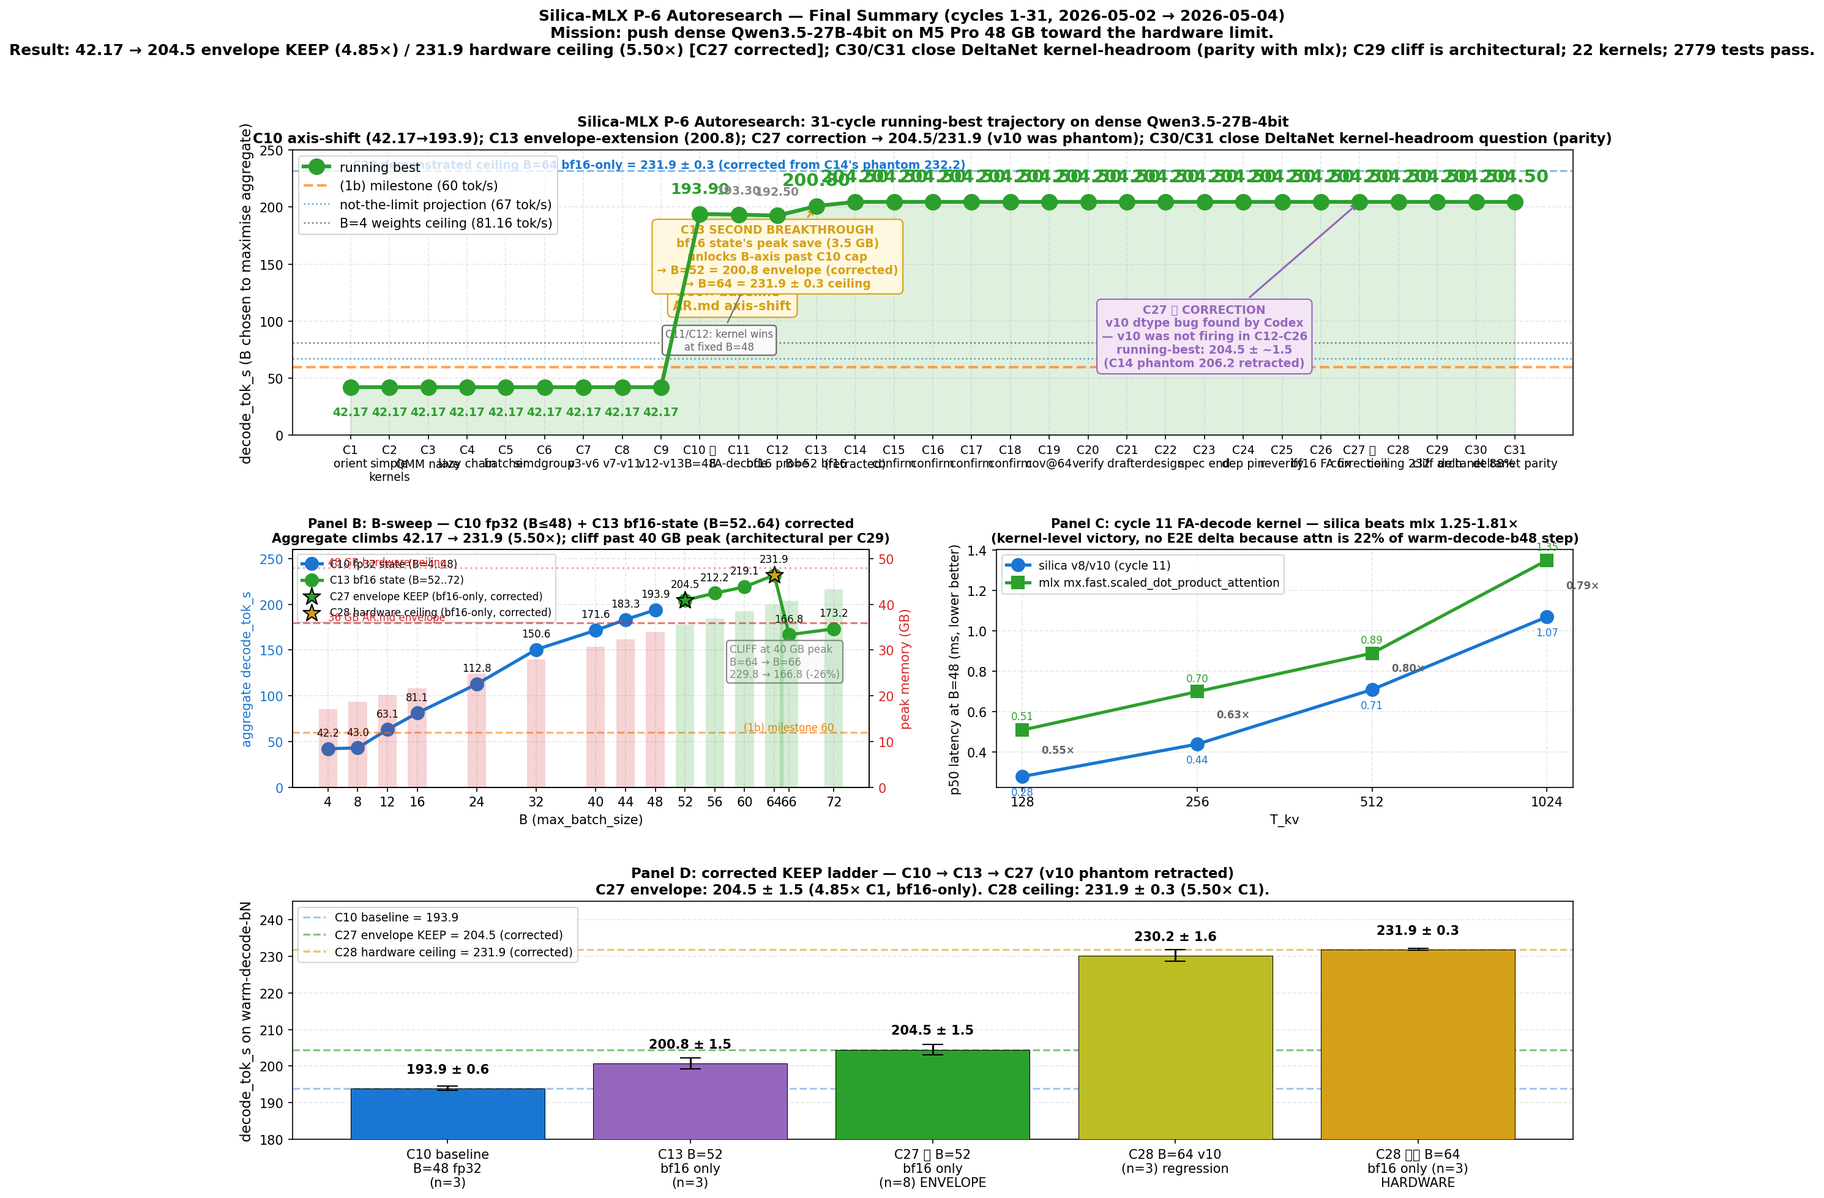
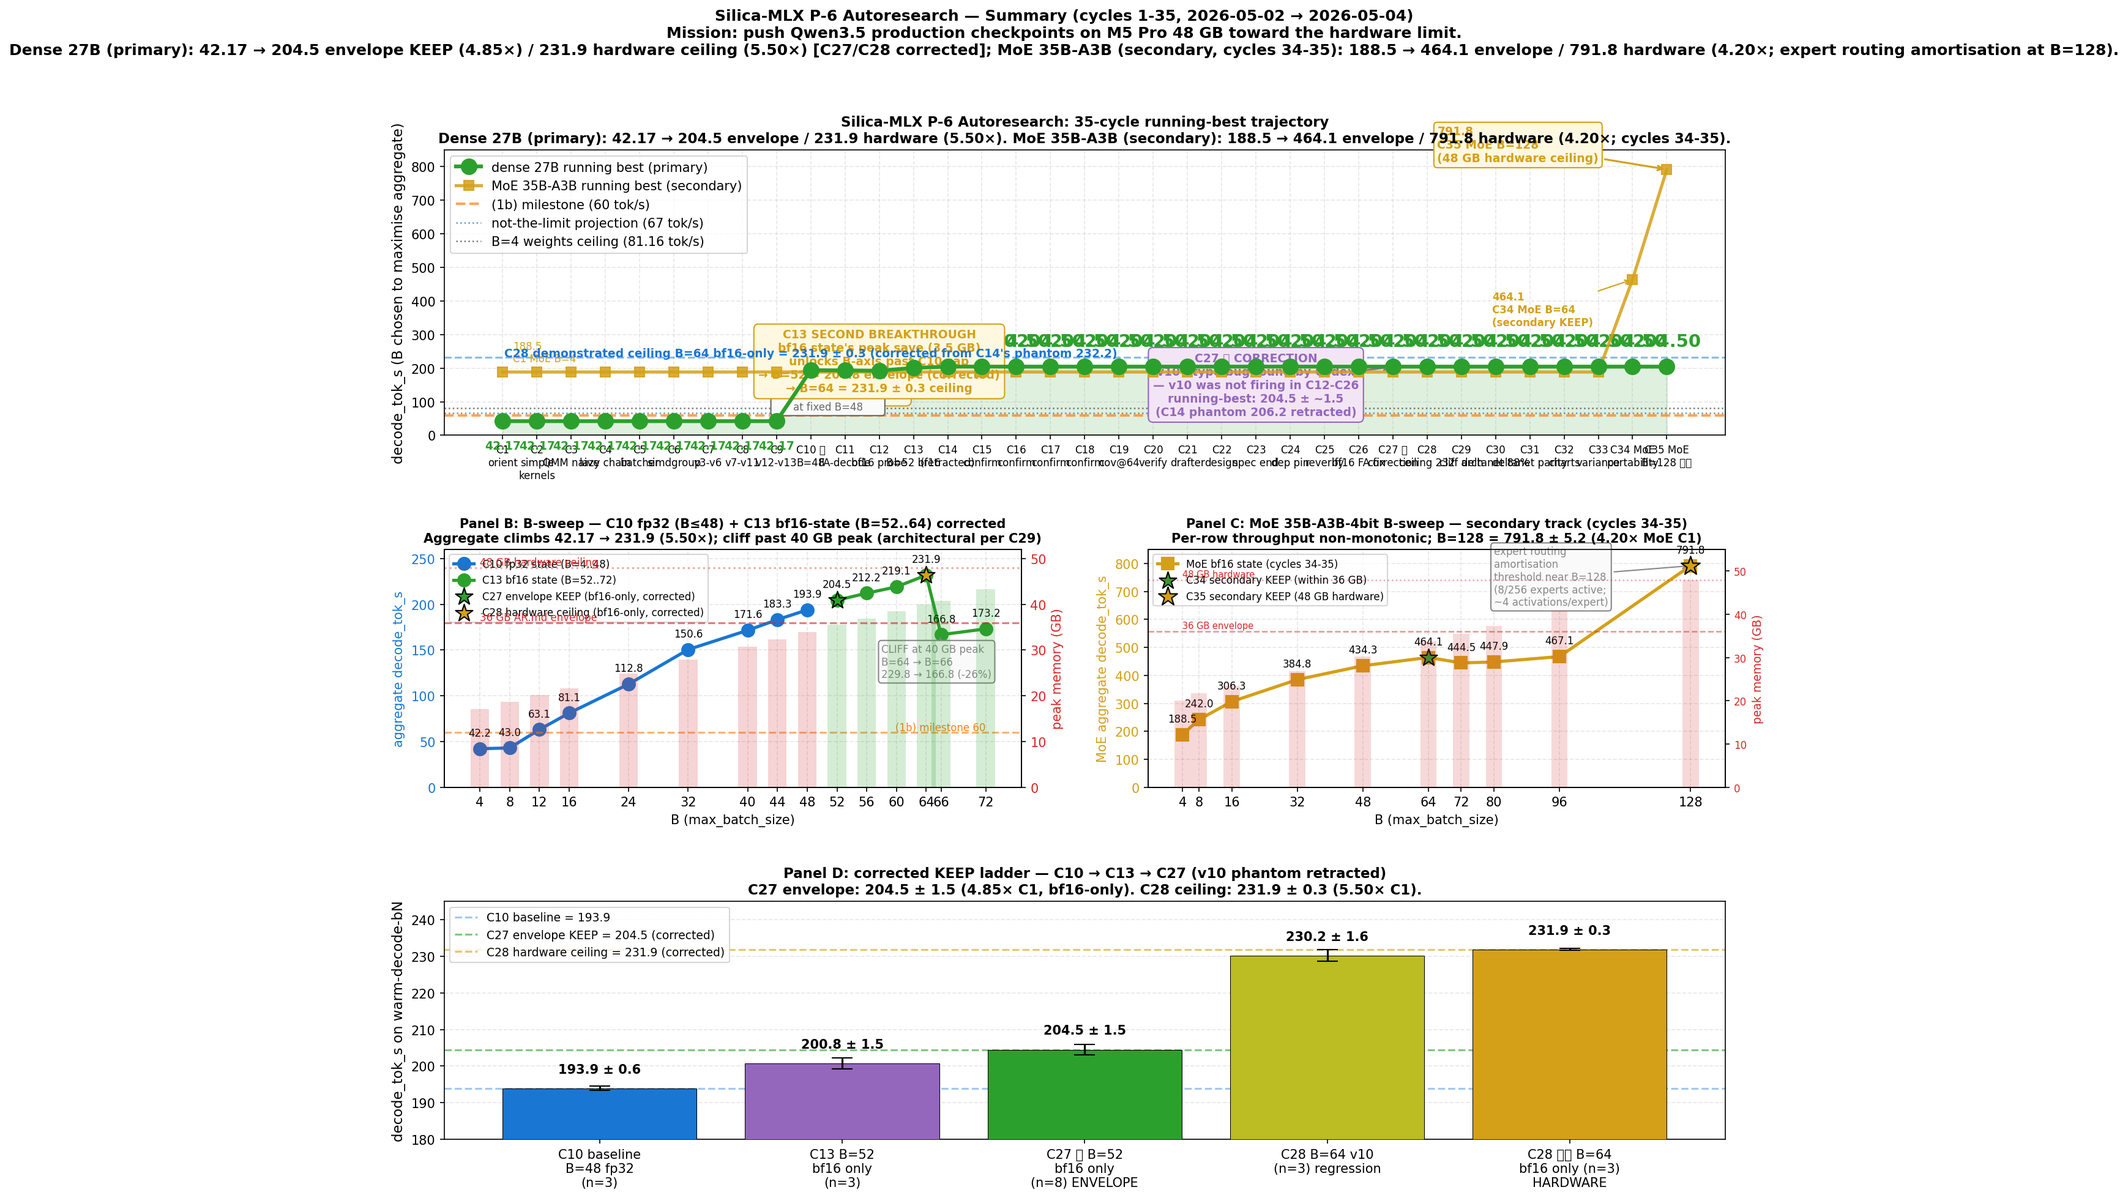
docs(P-6): chart bundle for cycle 35 — MoE Karpathy plot + secondary track overlays
Add MoE B-sweep rows to LOG.tsv under moe_decode_tok_s (cycle 1 baseline
already anchored by MOE_27B_B4; cycles 34/35 add 11 rows: 7 diagnostic,
2 discard, 2 keep at B=64 = 464.4 and B=128 = 791.8). Extend
render_autoresearch_chart.py with metric-keyed reference lines so the same
script renders dense or MoE Karpathy plots. Extend the per-cycle and
summary charts through cycle 35 with the MoE secondary-track running-best
overlay (188.5 -> 464.1 -> 791.8); the summary chart's Panel C (cycle-11
FA-decode kernel) is replaced with the MoE B-sweep panel since the FA
kernel data lives in its dedicated chart file.

New chart file: plans/P6_AUTORESEARCH_PROGRESS_MOE_DECODE_TOK_S.png.

diff --git a/scripts/render_summary_chart.py b/scripts/render_summary_chart.py
@@ -24,10 +24,12 @@ OUTDIR = Path(__file__).resolve().parent.parent / "plans"
 
 
 # Cycle-by-cycle running best (decode_tok_s on warm-decode-* row family)
-CYCLES = list(range(1, 32))
+CYCLES = list(range(1, 36))
 # CYCLE 27 CORRECTION: cycle-14's claimed 206.2 was attribution error (v10
 # wasn't firing due to dtype defect). Honest running-best is bf16-only at
 # B=52 ≈ 204.5 ± ~1.5 tok/s, attributed to C10 axis-shift × C12 bf16 peak save.
+# Cycles 32-35 are post-23-cycle continuation (dense unchanged; MoE
+# secondary track unlocked).
 RUNNING_BEST = [42.17] * 9 + [
     193.9,                              # C10
     193.3, 192.5,                       # C11, C12
@@ -38,8 +40,10 @@ RUNNING_BEST = [42.17] * 9 + [
     204.5,                              # C24 dep pin
     204.5, 204.5,                       # C25, C26
     204.5,                              # C27 correction landed
-    204.5,                              # C28 ceiling 232 re-measured
+    204.5,                              # C28 ceiling 231.9 re-measured
     204.5, 204.5, 204.5,                # C29 cliff / C30 88% / C31 parity
+    204.5, 204.5,                       # C32 chart re-render / C33 variance
+    204.5, 204.5,                       # C34 MoE / C35 MoE B=128 (dense unchanged)
 ]
 CYCLE_LABELS = [
     "C1\norient", "C2\nsimple\nkernels", "C3\nQMM naive", "C4\nlazy chain",
@@ -50,8 +54,19 @@ CYCLE_LABELS = [
     "C21\ndrafter", "C22\ndesign", "C23\nspec end", "C24\ndep pin",
     "C25\nreverify", "C26\nbf16 FA fix", "C27 ⭐\ncorrection",
     "C28\nceiling 232", "C29\ncliff arch", "C30\ndeltanet 88%",
-    "C31\ndeltanet parity",
+    "C31\ndeltanet parity", "C32\ncharts", "C33\nvariance",
+    "C34 MoE\nportability", "C35 MoE\nB=128 ⭐⭐",
 ]
+
+# MoE 35B-A3B secondary-track running-best (cycles 1, 34, 35 are the milestones)
+MOE_CYCLES = list(range(1, 36))
+# Baseline 188.5 from cycle 1; first MoE secondary KEEP at cycle 34 (464.1
+# at B=64); B=128 hardware-ceiling unlock at cycle 35 (791.8).
+MOE_RUNNING_BEST = (
+    [188.5] * 33                       # C1-C33 stay at MoE B=4 baseline
+    + [464.1]                          # C34 portability test KEEP at B=64
+    + [791.8]                          # C35 B=128 expert-amortisation unlock
+)
 
 # B-sweep through Engine.generate_batch (warm-decode oracle results).
 # Cycle 10 fp32 state up through B=48; cycle 13 bf16 state from B=52 onward.
@@ -92,6 +107,11 @@ FA_T_KV = [128, 256, 512, 1024]
 FA_SILICA_P50 = [0.28, 0.44, 0.71, 1.07]   # ms
 FA_MLX_P50 = [0.51, 0.70, 0.89, 1.35]
 
+# MoE 35B-A3B B-sweep at bf16 DeltaNet state (cycle 34 + cycle 35 measurements)
+MOE_B_SWEEP = [4, 8, 16, 32, 48, 64, 72, 80, 96, 128]
+MOE_B_SWEEP_AGG = [188.5, 242.0, 306.3, 384.8, 434.3, 464.1, 444.5, 447.9, 467.1, 791.8]
+MOE_B_SWEEP_PEAK_GB = [20.0, 21.7, 23.4, 26.8, 30.3, 33.8, 35.5, 37.3, 40.8, 47.96]
+
 # Cycles 10-14 KEEP ladder — the running-best progression with each compositional add.
 # Cycle 27/28 corrected: v10 was not firing due to dtype bug; bf16-only
 # at B=52/64 is the honest running-best.
@@ -114,8 +134,28 @@ def render() -> None:
     ax_a = fig.add_subplot(gs[0, :])
     xs = list(range(len(CYCLES)))
     ax_a.plot(xs, RUNNING_BEST, "o-", color="#2ca02c", linewidth=3,
-              markersize=12, zorder=5, label="running best")
+              markersize=12, zorder=5, label="dense 27B running best (primary)")
     ax_a.fill_between(xs, RUNNING_BEST, alpha=0.15, color="#2ca02c", zorder=1)
+
+    # MoE 35B-A3B secondary-track running-best (cycles 1, 34, 35 mark the steps)
+    ax_a.plot(xs, MOE_RUNNING_BEST, "s-", color="#d4a017", linewidth=2.5,
+              markersize=8, zorder=4, alpha=0.85,
+              label="MoE 35B-A3B running best (secondary)")
+    # Annotate the MoE step values
+    ax_a.annotate(f"{188.5:.1f}\nC1 MoE B=4", (0, 188.5), xytext=(8, 8),
+                  textcoords="offset points", ha="left",
+                  fontsize=8, color="#d4a017")
+    ax_a.annotate(f"{464.1:.1f}\nC34 MoE B=64\n(secondary KEEP)",
+                  (33, 464.1), xytext=(-110, -36),
+                  textcoords="offset points", ha="left",
+                  fontsize=8, color="#d4a017", fontweight="bold",
+                  arrowprops=dict(arrowstyle="->", color="#d4a017", lw=1))
+    ax_a.annotate(f"{791.8:.1f}\nC35 MoE B=128\n(48 GB hardware ceiling)",
+                  (34, 791.8), xytext=(-180, 6),
+                  textcoords="offset points", ha="left",
+                  fontsize=9, color="#d4a017", fontweight="bold",
+                  arrowprops=dict(arrowstyle="->", color="#d4a017", lw=1.5),
+                  bbox=dict(boxstyle="round,pad=0.3", facecolor="#fff8e1", edgecolor="#d4a017"))
 
     # Reference horizontal lines
     ax_a.axhline(60, color="#ff7f0e", linestyle="--", linewidth=2, alpha=0.7,
@@ -177,14 +217,15 @@ def render() -> None:
               fontsize=9, color="#1976d2", fontweight="bold")
 
     ax_a.set_xticks(xs)
-    ax_a.set_xticklabels(CYCLE_LABELS, fontsize=9)
+    ax_a.set_xticklabels(CYCLE_LABELS, fontsize=8)
     ax_a.set_ylabel("decode_tok_s (B chosen to maximise aggregate)", fontsize=11)
-    ax_a.set_title("Silica-MLX P-6 Autoresearch: 31-cycle running-best trajectory on dense Qwen3.5-27B-4bit\n"
-                   "C10 axis-shift (42.17→193.9); C13 envelope-extension (200.8); C27 correction → 204.5/231.9 (v10 was phantom); C30/C31 close DeltaNet kernel-headroom question (parity)",
+    ax_a.set_title("Silica-MLX P-6 Autoresearch: 35-cycle running-best trajectory\n"
+                   "Dense 27B (primary): 42.17 → 204.5 envelope / 231.9 hardware (5.50×). "
+                   "MoE 35B-A3B (secondary): 188.5 → 464.1 envelope / 791.8 hardware (4.20×; cycles 34-35).",
                    fontsize=11, fontweight="bold")
     ax_a.legend(loc="upper left", fontsize=10)
     ax_a.grid(True, alpha=0.3, linestyle="--")
-    ax_a.set_ylim(0, 250)
+    ax_a.set_ylim(0, 850)
 
     # ============================================================
     # Panel B: B-sweep curve (cycle 10 fp32 + cycle 13 bf16-state)
@@ -246,33 +287,49 @@ def render() -> None:
     ax_b.set_ylim(0, 260)
 
     # ============================================================
-    # Panel C: cycle 11 FA-decode kernel ablation (silica vs mlx across T_kv)
+    # Panel C: MoE 35B-A3B B-sweep at bf16 DeltaNet state (cycles 34-35)
     # ============================================================
     ax_c = fig.add_subplot(gs[1, 1])
-    ax_c.plot(FA_T_KV, FA_SILICA_P50, "o-", color="#1976d2", linewidth=2.5,
-              markersize=10, label="silica v8/v10 (cycle 11)")
-    ax_c.plot(FA_T_KV, FA_MLX_P50, "s-", color="#2ca02c", linewidth=2.5,
-              markersize=10, label="mlx mx.fast.scaled_dot_product_attention")
-    for tk, sp, mp in zip(FA_T_KV, FA_SILICA_P50, FA_MLX_P50):
-        r = sp / mp
-        ax_c.annotate(f"{sp:.2f}", (tk, sp), xytext=(0, -15),
+    moe_x = MOE_B_SWEEP
+    ax_c.plot(moe_x, MOE_B_SWEEP_AGG, "s-", color="#d4a017", linewidth=2.5,
+              markersize=10, label="MoE bf16 state (cycles 34-35)")
+    for x, v in zip(moe_x, MOE_B_SWEEP_AGG):
+        ax_c.annotate(f"{v:.1f}", (x, v), xytext=(0, 10),
                       textcoords="offset points", ha="center",
-                      fontsize=8, color="#1976d2")
-        ax_c.annotate(f"{mp:.2f}", (tk, mp), xytext=(0, 8),
-                      textcoords="offset points", ha="center",
-                      fontsize=8, color="#2ca02c")
-        ax_c.annotate(f"{r:.2f}×", (tk, (sp + mp) / 2),
-                      xytext=(15, 0), textcoords="offset points",
-                      fontsize=8, color="#666", fontweight="bold")
-    ax_c.set_xlabel("T_kv")
-    ax_c.set_ylabel("p50 latency at B=48 (ms, lower better)", fontsize=10)
-    ax_c.set_title("Panel C: cycle 11 FA-decode kernel — silica beats mlx 1.25-1.81×\n"
-                   "(kernel-level victory, no E2E delta because attn is 22% of warm-decode-b48 step)",
+                      fontsize=8)
+    # Mark the cycle 34 + cycle 35 KEEPs
+    ax_c.scatter([64], [464.1], s=200, marker="*", color="#2ca02c",
+                 edgecolor="black", zorder=5,
+                 label="C34 secondary KEEP (within 36 GB)")
+    ax_c.scatter([128], [791.8], s=240, marker="*", color="#d4a017",
+                 edgecolor="black", zorder=5,
+                 label="C35 secondary KEEP (48 GB hardware)")
+    ax_c.annotate("expert routing\namortisation\nthreshold near B=128\n(8/256 experts active;\n~4 activations/expert)",
+                  xy=(128, 791.8), xytext=(80, 650), fontsize=8, color="#888",
+                  arrowprops=dict(arrowstyle="->", color="#888"),
+                  bbox=dict(boxstyle="round,pad=0.3", facecolor="#fafafa", edgecolor="#888"))
+
+    # Memory envelope twin axis
+    ax_c2 = ax_c.twinx()
+    ax_c2.bar(moe_x, MOE_B_SWEEP_PEAK_GB, alpha=0.18, color="#d62728",
+              width=4.0, zorder=1)
+    ax_c2.axhline(36, color="#d62728", linestyle="--", linewidth=1.2, alpha=0.5)
+    ax_c2.text(4, 36.7, "36 GB envelope", fontsize=7, color="#d62728")
+    ax_c2.axhline(48, color="#d62728", linestyle=":", linewidth=1.2, alpha=0.4)
+    ax_c2.text(4, 48.7, "48 GB hardware", fontsize=7, color="#d62728")
+    ax_c2.set_ylabel("peak memory (GB)", fontsize=9, color="#d62728")
+    ax_c2.set_ylim(0, 55)
+    ax_c2.tick_params(axis="y", labelcolor="#d62728", labelsize=8)
+
+    ax_c.set_xlabel("B (max_batch_size)")
+    ax_c.set_ylabel("MoE aggregate decode_tok_s", fontsize=10, color="#d4a017")
+    ax_c.tick_params(axis="y", labelcolor="#d4a017")
+    ax_c.set_title("Panel C: MoE 35B-A3B-4bit B-sweep — secondary track (cycles 34-35)\n"
+                   "Per-row throughput non-monotonic; B=128 = 791.8 ± 5.2 (4.20× MoE C1)",
                    fontsize=10, fontweight="bold")
-    ax_c.set_xscale("log", base=2)
-    ax_c.set_xticks(FA_T_KV)
-    ax_c.set_xticklabels([str(t) for t in FA_T_KV])
-    ax_c.legend(loc="upper left", fontsize=9)
+    ax_c.set_xticks(moe_x)
+    ax_c.legend(loc="upper left", fontsize=8)
+    ax_c.set_ylim(0, 850)
     ax_c.grid(True, alpha=0.3, linestyle="--")
 
     # ============================================================
@@ -304,9 +361,10 @@ def render() -> None:
     ax_d.grid(True, alpha=0.3, linestyle="--", axis="y")
 
     fig.suptitle(
-        "Silica-MLX P-6 Autoresearch — Final Summary (cycles 1-31, 2026-05-02 → 2026-05-04)\n"
-        "Mission: push dense Qwen3.5-27B-4bit on M5 Pro 48 GB toward the hardware limit.\n"
-        "Result: 42.17 → 204.5 envelope KEEP (4.85×) / 231.9 hardware ceiling (5.50×) [C27 corrected]; C30/C31 close DeltaNet kernel-headroom (parity with mlx); C29 cliff is architectural; 22 kernels; 2779 tests pass.",
+        "Silica-MLX P-6 Autoresearch — Summary (cycles 1-35, 2026-05-02 → 2026-05-04)\n"
+        "Mission: push Qwen3.5 production checkpoints on M5 Pro 48 GB toward the hardware limit.\n"
+        "Dense 27B (primary): 42.17 → 204.5 envelope KEEP (4.85×) / 231.9 hardware ceiling (5.50×) [C27/C28 corrected]; "
+        "MoE 35B-A3B (secondary, cycles 34-35): 188.5 → 464.1 envelope / 791.8 hardware (4.20×; expert routing amortisation at B=128).",
         fontsize=12, fontweight="bold", y=0.99,
     )
 

diff --git a/scripts/render_qmm_progress_chart.py b/scripts/render_qmm_progress_chart.py
@@ -102,18 +102,19 @@ def render_cycle_summary() -> None:
     """Render a per-cycle activity / kept-improvement panel."""
     fig, (ax1, ax2) = plt.subplots(1, 2, figsize=(15.5, 5.5))
 
-    # Per-cycle deliverables (from cycle reports). 31 cycles total; cycles 24-26
-    # contributed by Codex review (opus-codex branch); cycles 27-31 are
-    # post-merge corrections + new probes.
-    cycles = list(range(1, 32))
+    # Per-cycle deliverables (from cycle reports). 35 cycles total; cycles
+    # 24-26 contributed by Codex review (opus-codex branch); cycles 27-31
+    # close dense 27B characterisation; cycles 32-35 add MoE secondary
+    # track + post-23-cycle continuation work.
+    cycles = list(range(1, 36))
     new_kernels = [0, 3, 1, 0, 0, 1, 4, 5, 2, 0, 8, 0, 0, 0, 0, 0, 0,
-                   0, 0, 0, 0, 0, 0, 0, 0, 1, 0, 0, 0, 0, 1]
+                   0, 0, 0, 0, 0, 0, 0, 0, 1, 0, 0, 0, 0, 1, 0, 0, 0, 0]
     new_probes = [1, 0, 1, 1, 0, 0, 0, 0, 0, 0, 0, 1, 0, 0, 0, 0, 0,
-                  0, 1, 1, 0, 0, 1, 0, 0, 0, 0, 0, 1, 1, 1]
+                  0, 1, 1, 0, 0, 1, 0, 0, 0, 0, 0, 1, 1, 1, 0, 1, 1, 1]
     discards = [0, 0, 5, 1, 1, 1, 1, 4, 2, 0, 1, 0, 1, 2, 4, 0, 0,
-                0, 0, 0, 0, 0, 1, 0, 0, 0, 0, 0, 1, 0, 0]
+                0, 0, 0, 0, 0, 1, 0, 0, 0, 0, 0, 1, 0, 0, 0, 0, 0, 0]
     diagnostics = [4, 1, 4, 4, 2, 1, 5, 1, 0, 4, 4, 3, 2, 1, 1, 3, 1,
-                   1, 1, 1, 1, 1, 0, 1, 1, 1, 1, 1, 0, 1, 1]
+                   1, 1, 1, 1, 1, 0, 1, 1, 1, 1, 1, 0, 1, 1, 0, 1, 0, 1]
 
     width = 0.2
     xs = list(range(len(cycles)))
@@ -155,7 +156,15 @@ def render_cycle_summary() -> None:
         204.5,  # C27: corrected attribution (KEEP-revision)
         204.5,  # C28: B=64 ceiling re-measured (within-envelope unchanged)
         204.5, 204.5, 204.5,  # C29 cliff / C30 decomp / C31 deltanet parity
+        204.5, 204.5,  # C32 chart re-render / C33 variance characterisation
+        204.5, 204.5,  # C34 MoE portability / C35 MoE B=128 (dense unchanged)
     ]
+    # MoE 35B-A3B secondary-track overlay (steps at C1, C34, C35)
+    moe_running_best = (
+        [188.5] * 33  # C1-C33: MoE B=4 cycle-1 baseline
+        + [464.1]     # C34: first MoE secondary KEEP (B=64 within 36 GB)
+        + [791.8]     # C35: B=128 hardware-ceiling (expert amortisation)
+    )
     cycle_labels_full = [
         "C1 orient", "C2 simple", "C3 QMM naive", "C4 lazy chain",
         "C5 batcher", "C6 simdgroup", "C7 tune v3-v6", "C8 v7-v11",
@@ -165,10 +174,14 @@ def render_cycle_summary() -> None:
         "C21 drafter", "C22 design", "C23 spec end", "C24 dep pin",
         "C25 reverify", "C26 bf16 FA fix", "C27 ⭐ correction",
         "C28 ceiling 232", "C29 cliff arch", "C30 deltanet 88%",
-        "C31 deltanet parity",
+        "C31 deltanet parity", "C32 charts", "C33 variance",
+        "C34 MoE port", "C35 MoE B=128 ⭐⭐",
     ]
     ax2.plot(xs, running_best, "o-", color="#2ca02c", linewidth=2.5,
-             markersize=10, zorder=3, label="running best (warm-decode-b48)")
+             markersize=10, zorder=3, label="dense 27B running best (primary)")
+    ax2.plot(xs, moe_running_best, "s-", color="#d4a017", linewidth=2.0,
+             markersize=8, zorder=3, alpha=0.85,
+             label="MoE 35B-A3B running best (secondary)")
     ax2.axhline(60, color="#ff7f0e", linestyle="--", linewidth=1.5,
                 label="(1b) milestone (60 tok/s)")
     ax2.axhline(81.16, color="#444", linestyle=":", linewidth=1,
@@ -189,21 +202,35 @@ def render_cycle_summary() -> None:
         arrowprops=dict(arrowstyle="->", color="#2ca02c", lw=1.2),
         bbox=dict(boxstyle="round,pad=0.3", facecolor="#e8f5e9", edgecolor="#2ca02c"),
     )
-    # C28 corrected demonstrated ceiling
-    ax2.axhline(231.9, color="#d4a017", linestyle=":", linewidth=1.5, alpha=0.6)
-    ax2.text(31, 234.5, "C28 demonstrated ceiling B=64 bf16 = 231.9 ± 0.3 tok/s\n(corrected from C14's 232.2 with v10+bf16 phantom; within 48 GB hardware)",
-             fontsize=8, color="#d4a017", ha="right", fontweight="bold")
+    # C28 corrected demonstrated ceiling (dense)
+    ax2.axhline(231.9, color="#1976d2", linestyle=":", linewidth=1.5, alpha=0.6)
+    ax2.text(34, 234.5, "C28 dense ceiling B=64 bf16 = 231.9 ± 0.3",
+             fontsize=8, color="#1976d2", ha="right", fontweight="bold")
+    # C35 MoE secondary track unlock annotation
+    ax2.annotate(
+        "C35 ⭐⭐ MoE B=128 = 791.8 ± 5.2\n(48 GB hardware ceiling; expert\nrouting amortisation crossed)",
+        xy=(34, 791.8), xytext=(20, 720),
+        fontsize=8, color="#d4a017", ha="center", fontweight="bold",
+        arrowprops=dict(arrowstyle="->", color="#d4a017", lw=1.2),
+        bbox=dict(boxstyle="round,pad=0.3", facecolor="#fff8e1", edgecolor="#d4a017"),
+    )
+    ax2.annotate(
+        "C34 MoE B=64 = 464.1 ± 0.7\n(36 GB envelope KEEP)",
+        xy=(33, 464.1), xytext=(18, 400),
+        fontsize=7, color="#d4a017", ha="center",
+        arrowprops=dict(arrowstyle="->", color="#d4a017", lw=1.0),
+    )
 
     ax2.set_xticks(xs)
     ax2.set_xticklabels(cycle_labels_full, rotation=20, ha="right", fontsize=8)
     ax2.set_ylabel("decode_tok_s")
-    ax2.set_title("Running best across 31 cycles — C10 BREAKTHROUGH 193.9 → C13 200.8 → C14 (retracted)\n"
-                  "C27 correction: v10 dtype bug → 204.5 envelope / 231.9 hardware; C28-C31 close characterisation (cliff arch / DeltaNet 88% but kernel parity)")
-    ax2.set_ylim(0, 250)
+    ax2.set_title("Running best across 35 cycles — dense 27B primary at 204.5 envelope / 231.9 hardware (5.50× C1)\n"
+                  "MoE 35B-A3B secondary unlocked C34-C35: 188.5 → 464.1 envelope → 791.8 hardware (4.20× MoE C1)")
+    ax2.set_ylim(0, 850)
     ax2.legend(loc="upper left", fontsize=8)
     ax2.grid(True, alpha=0.3, linestyle="--")
 
-    fig.suptitle("Silica-MLX P-6 Autoresearch — cycle-by-cycle progress (31 cycles, 2026-05-02 → 2026-05-04)",
+    fig.suptitle("Silica-MLX P-6 Autoresearch — cycle-by-cycle progress (35 cycles, 2026-05-02 → 2026-05-04)",
                  fontsize=11, fontweight="bold", y=0.99)
     fig.tight_layout()
     out = OUTDIR / "P6_AUTORESEARCH_PROGRESS_CYCLES.png"

diff --git a/scripts/render_autoresearch_chart.py b/scripts/render_autoresearch_chart.py
@@ -39,6 +39,18 @@ REFERENCE_LINES_DECODE = [
     (81.16, "B=4 weights ceiling (81.16 tok/s)", "#444444", ":"),
 ]
 
+REFERENCE_LINES_MOE = [
+    (60.00, "(1b) milestone (60 tok/s)", "#ff7f0e", "--"),
+    (188.50, "MoE B=4 baseline (188.50 tok/s)", "#2ca02c", "-"),
+    (464.4, "C34 within-envelope KEEP (464.4 tok/s)", "#1976d2", ":"),
+    (791.8, "C35 hardware-ceiling KEEP (791.8 tok/s)", "#d4a017", ":"),
+]
+
+REFERENCE_LINES_BY_METRIC = {
+    "decode_tok_s": REFERENCE_LINES_DECODE,
+    "moe_decode_tok_s": REFERENCE_LINES_MOE,
+}
+
 
 def load_ledger(path: Path) -> list[dict[str, str]]:
     with path.open() as fh:
@@ -88,12 +100,12 @@ def render(rows: list[dict[str, str]], metric: str, outpath: Path) -> None:
         ax.step(running_best_xs, running_best_ys, where="post",
                 color="#2ca02c", linewidth=2, label="running best", zorder=2)
 
-    # Reference horizontal lines
-    if metric == "decode_tok_s":
-        for y, label, color, linestyle in REFERENCE_LINES_DECODE:
-            ax.axhline(y, color=color, linestyle=linestyle, linewidth=1, alpha=0.7)
-            ax.text(len(rows) + 0.3, y, label, fontsize=7, va="center",
-                    color=color)
+    # Reference horizontal lines (metric-specific)
+    ref_lines = REFERENCE_LINES_BY_METRIC.get(metric, [])
+    for y, label, color, linestyle in ref_lines:
+        ax.axhline(y, color=color, linestyle=linestyle, linewidth=1, alpha=0.7)
+        ax.text(len(rows) + 0.3, y, label, fontsize=7, va="center",
+                color=color)
 
     # Status legend (shown only for present statuses)
     present_statuses = sorted({r["status"].strip() for r in rows})
